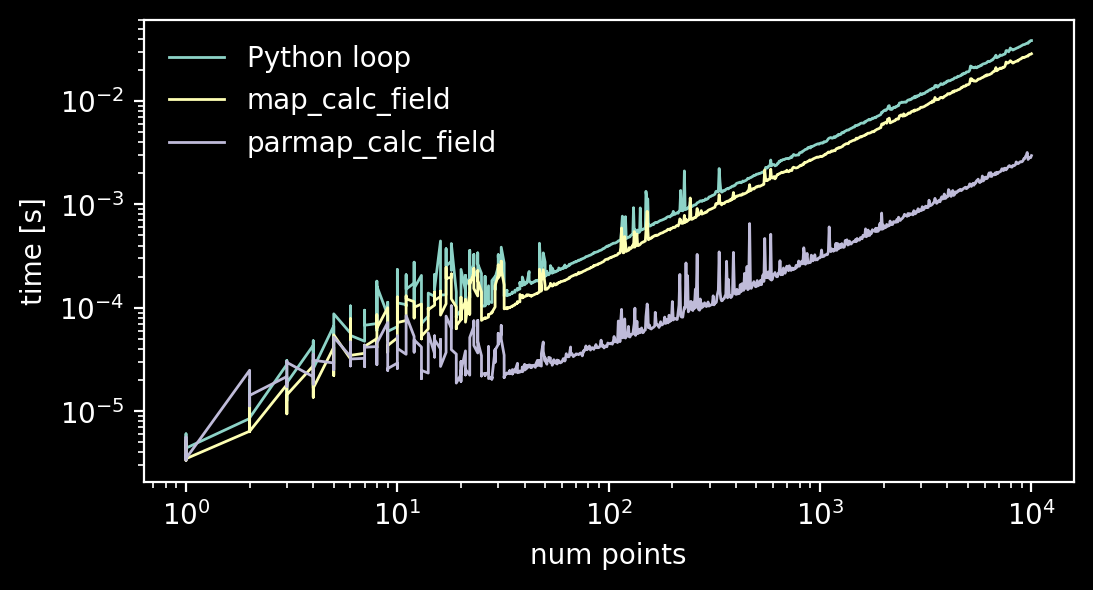
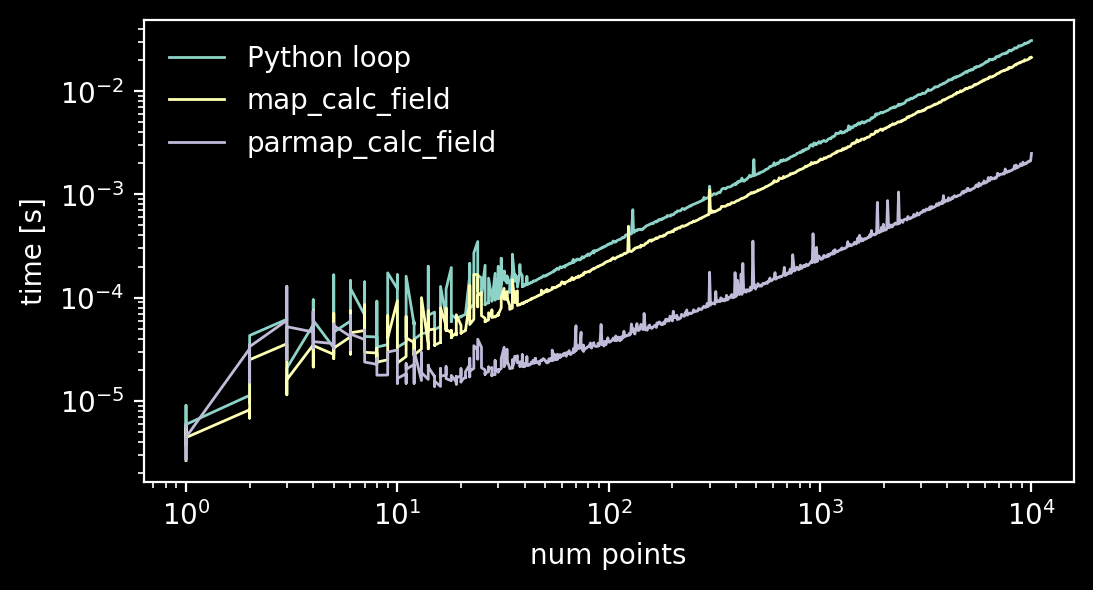
remove unnecessary vec allocations from currentsheet.rs

diff --git a/src/convert.rs b/src/convert.rs
@@ -1,15 +1,18 @@
 use std::f64::consts::PI;
 
-use ndarray::{Array1, Array2, ArrayView1};
+use ndarray::{Array1, Array2, ArrayView1, AsArray};
 
 /// Converts a vector of cartesian coordinates to spherical coordinates.
-pub fn pos_xyz_to_rtp(arr: ArrayView1<f64>) -> Array1<f64> {
+pub fn pos_xyz_to_rtp<'a, A: AsArray<'a, f64>>(input: A) -> Array1<f64> {
+    let arr: ArrayView1<f64> = input.into();
+
     let r = (arr[0].powi(2) + arr[1].powi(2) + arr[2].powi(2)).sqrt();
     Array1::from_vec(vec![r, (arr[2] / r).acos(), (arr[1]).atan2(arr[0])])
 }
 
 /// Converts a vector of spherical coordinates to cartesian coordinates.
-pub fn pos_rtp_to_xyz(arr: ArrayView1<f64>) -> Array1<f64> {
+pub fn pos_rtp_to_xyz<'a, A: AsArray<'a, f64>>(input: A) -> Array1<f64> {
+    let arr: ArrayView1<f64> = input.into();
     Array1::from_vec(vec![
         arr[0] * arr[1].sin() * arr[2].cos(),
         arr[0] * arr[1].sin() * arr[2].sin(),
@@ -18,7 +21,8 @@ pub fn pos_rtp_to_xyz(arr: ArrayView1<f64>) -> Array1<f64> {
 }
 
 /// Converts a vector from cartesian basis to spherical basis.
-pub fn vec_xyz_to_rtp(arr: ArrayView1<f64>, theta: &f64, phi: &f64) -> Array1<f64> {
+pub fn vec_xyz_to_rtp<'a, A: AsArray<'a, f64>>(input: A, theta: &f64, phi: &f64) -> Array1<f64> {
+    let arr: ArrayView1<f64> = input.into();
     let sintheta = theta.sin();
     let costheta = theta.cos();
     let sinphi = phi.sin();
@@ -32,7 +36,8 @@ pub fn vec_xyz_to_rtp(arr: ArrayView1<f64>, theta: &f64, phi: &f64) -> Array1<f6
 }
 
 /// Converts a vector from spherical basis to cartesian basis.
-pub fn vec_rtp_to_xyz(arr: ArrayView1<f64>, theta: &f64, phi: &f64) -> Array1<f64> {
+pub fn vec_rtp_to_xyz<'a, A: AsArray<'a, f64>>(input: A, theta: &f64, phi: &f64) -> Array1<f64> {
+    let arr: ArrayView1<f64> = input.into();
     let sintheta = theta.sin();
     let costheta = theta.cos();
     let sinphi = phi.sin();
@@ -46,7 +51,8 @@ pub fn vec_rtp_to_xyz(arr: ArrayView1<f64>, theta: &f64, phi: &f64) -> Array1<f6
 }
 
 /// Converts a vector from cylindrical basis to cartesian basis.
-pub fn vec_rpz_to_xyz(arr: ArrayView1<f64>, phi: &f64) -> Array1<f64> {
+pub fn vec_rpz_to_xyz<'a, A: AsArray<'a, f64>>(input: A, phi: &f64) -> Array1<f64> {
+    let arr: ArrayView1<f64> = input.into();
     let sinphi = phi.sin();
     let cosphi = phi.cos();
 
@@ -58,7 +64,8 @@ pub fn vec_rpz_to_xyz(arr: ArrayView1<f64>, phi: &f64) -> Array1<f64> {
 }
 
 /// Converts a cartesian vector in IAU frame to a cartesian vector in MAG frame.
-pub fn vec_iau_to_mag(arr: ArrayView1<f64>, theta_d: f64, phi_d: f64) -> Array1<f64> {
+pub fn vec_iau_to_mag<'a, A: AsArray<'a, f64>>(input: A, theta_d: f64, phi_d: f64) -> Array1<f64> {
+    let arr: ArrayView1<f64> = input.into();
     // To get from IAU to MAG we need to rotate by -Phi_d along z, then
     // rotate by -Theta_d along Y. The PI subtraction I don't quite understand but it is done by
     // every current sheet code. Let's just have faith.
@@ -70,7 +77,8 @@ pub fn vec_iau_to_mag(arr: ArrayView1<f64>, theta_d: f64, phi_d: f64) -> Array1<
 }
 
 /// Converts a cartesian vector in MAG frame to a cartesian vector in IAU frame.
-pub fn vec_mag_to_iau(arr: ArrayView1<f64>, theta_d: f64, phi_d: f64) -> Array1<f64> {
+pub fn vec_mag_to_iau<'a, A: AsArray<'a, f64>>(input: A, theta_d: f64, phi_d: f64) -> Array1<f64> {
+    let arr: ArrayView1<f64> = input.into();
     // To get from IAU to MAG we need to rotate by
     // Theta_d along Y
     // Phi_d along Z

diff --git a/src/currentsheet.rs b/src/currentsheet.rs
@@ -1,4 +1,4 @@
-use ndarray::Array1;
+use ndarray::{Array1, ArrayView1};
 use numpy::{IntoPyArray, PyArray1, PyArray2, PyReadonlyArray2};
 use pyo3::{
     prelude::PyAnyMethods, pyclass, pymethods, types::IntoPyDict, types::PyDict, Bound, PyAny,
@@ -193,12 +193,14 @@ impl CurrentSheetField {
 
 impl Field for CurrentSheetField {
     fn calc_field(&self, r: f64, theta: f64, phi: f64) -> Array1<f64> {
-        // First we need to convert the input coordinates to cartesian
-        let pos_in = Array1::from_vec(vec![r, theta, phi]);
-        let pos_xyz = convert::pos_rtp_to_xyz(pos_in.view());
+        let pos_xyz = convert::pos_rtp_to_xyz(&[r, theta, phi]);
+        let b_xyz = self.calc_field_xyz(pos_xyz[0], pos_xyz[1], pos_xyz[2]);
+        convert::vec_xyz_to_rtp(b_xyz.view(), &theta, &phi)
+    }
 
-        // Then we convert the input coordinates from IAU to MAG frame
-        let pos_xyz_mag = convert::vec_iau_to_mag(pos_xyz.view(), self.theta_d, self.phi_d);
+    fn calc_field_xyz(&self, x: f64, y: f64, z: f64) -> Array1<f64> {
+        // Convert the input coordinates from IAU to MAG frame
+        let pos_xyz_mag = convert::vec_iau_to_mag(&[x, y, z], self.theta_d, self.phi_d);
         let r_mag = (pos_xyz_mag[0].powi(2) + pos_xyz_mag[1].powi(2)).sqrt();
         let z_mag = pos_xyz_mag[2];
         let phi_mag = pos_xyz_mag[1].atan2(pos_xyz_mag[0]);
@@ -219,8 +221,7 @@ impl Field for CurrentSheetField {
         // Convert (Bx, By, Bz)_MAG to (Bx, By, Bz)_IAU
         let b_iau = convert::vec_mag_to_iau(b_mag.view(), self.theta_d, self.phi_d);
 
-        // Convert (Bx, By, Bz)_IAU to (Br, Btheta, Bphi)_IAU and return
-        convert::vec_xyz_to_rtp(b_iau.view(), &theta, &phi)
+        b_iau
     }
 }
 

diff --git a/tests/test_trace.py b/tests/test_trace.py
@@ -1,0 +1,19 @@
+import numpy as np
+
+import iupitermag
+
+
+def test_trace():
+
+    start_pos = np.array([[-10.0, 2.0, 3.0]])
+
+    internal_field = iupitermag.InternalField("JRM33", degree=10)
+    currentsheet_field = iupitermag.CurrentSheetField("CON2020")
+
+    traces = iupitermag.trace_field_to_planet(
+        start_pos, internal_field, currentsheet_field
+    )
+
+    # The point traced to the planet in the northen hemisphere.
+    first_expected = np.array([-0.52819934, -0.01459706, 0.77033209])
+    assert np.allclose(first_expected, traces[0][0, :], rtol=1e-3)

diff --git a/src/field.rs b/src/field.rs
@@ -8,8 +8,7 @@ pub trait Field {
     /// Return the field calculated at a point (x, y, z) in cartesian coordinates
     /// (Bx, By, Bz).
     fn calc_field_xyz(&self, x: f64, y: f64, z: f64) -> Array1<f64> {
-        let pos_xyz = Array1::from(vec![x, y, z]);
-        let pos_rtp = convert::pos_xyz_to_rtp(pos_xyz.view());
+        let pos_rtp = convert::pos_xyz_to_rtp(&[x, y, z]);
         let b_rtp = self.calc_field(pos_rtp[0], pos_rtp[1], pos_rtp[2]);
         convert::vec_rtp_to_xyz(b_rtp.view(), &pos_rtp[1], &pos_rtp[2])
     }

diff --git a/scripts/trace_field_lines.py b/scripts/trace_field_lines.py
@@ -40,6 +40,6 @@ if __name__ == "__main__":
     ax.set_xlabel(r"X [R$_J$]")
     ax.set_ylabel(r"Z [R$_J$]")
     ax.set_aspect("equal")
-    fig.savefig("traced_field_lines.png", facecolor="k", bbox_inches="tight")
+    fig.savefig("images/traced_field_lines.png", facecolor="k", bbox_inches="tight")
     plt.show()
     plt.close(fig)

diff --git a/scripts/benchmark.py b/scripts/benchmark.py
@@ -75,6 +75,6 @@ if __name__ == "__main__":
     ax.set_xlabel("num points")
     ax.set_ylabel("time [s]")
     plt.show()
-    fig.savefig("traced_field_lines.png", facecolor="k", bbox_inches="tight")
+    fig.savefig("images/benchmark.png", facecolor="k", bbox_inches="tight")
     plt.show()
     plt.close(fig)

diff --git a/scripts/plot_surface_field.py b/scripts/plot_surface_field.py
@@ -55,7 +55,7 @@ if __name__ == "__main__":
 
     cbar = fig.colorbar(mp)
     cbar.set_label("nT")
-    fig.savefig("jupiter_surfacefield.png", facecolor="k", bbox_inches="tight")
+    fig.savefig("images/jupiter_surfacefield.png", facecolor="k", bbox_inches="tight")
 
     plt.show()
     plt.close(fig)
